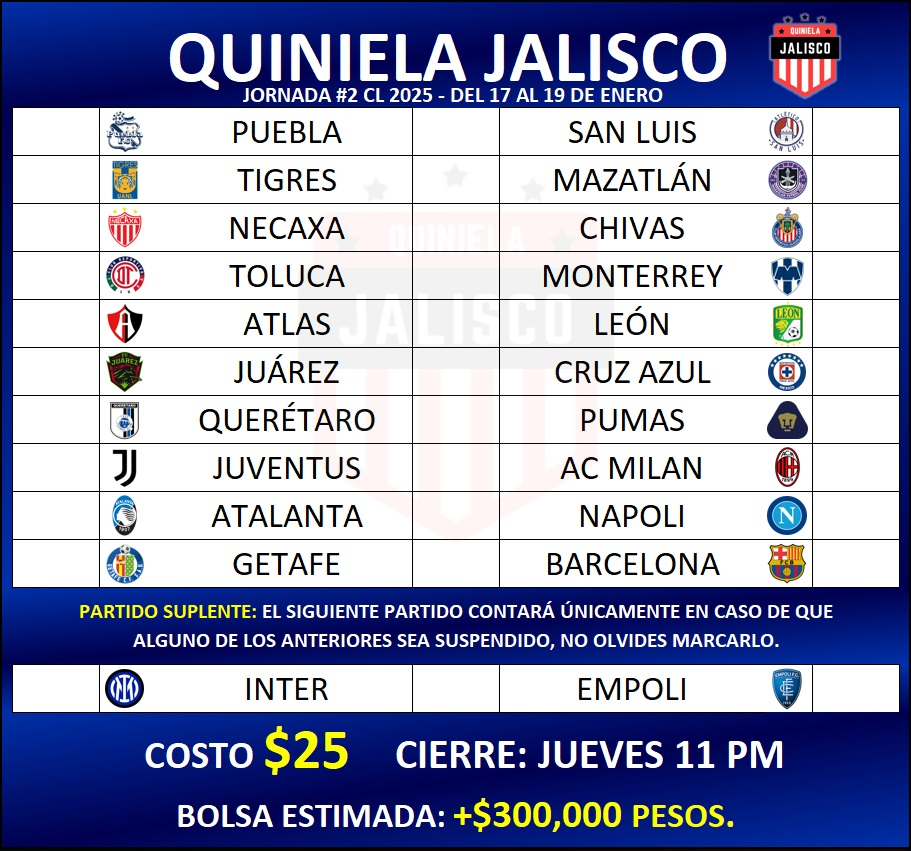
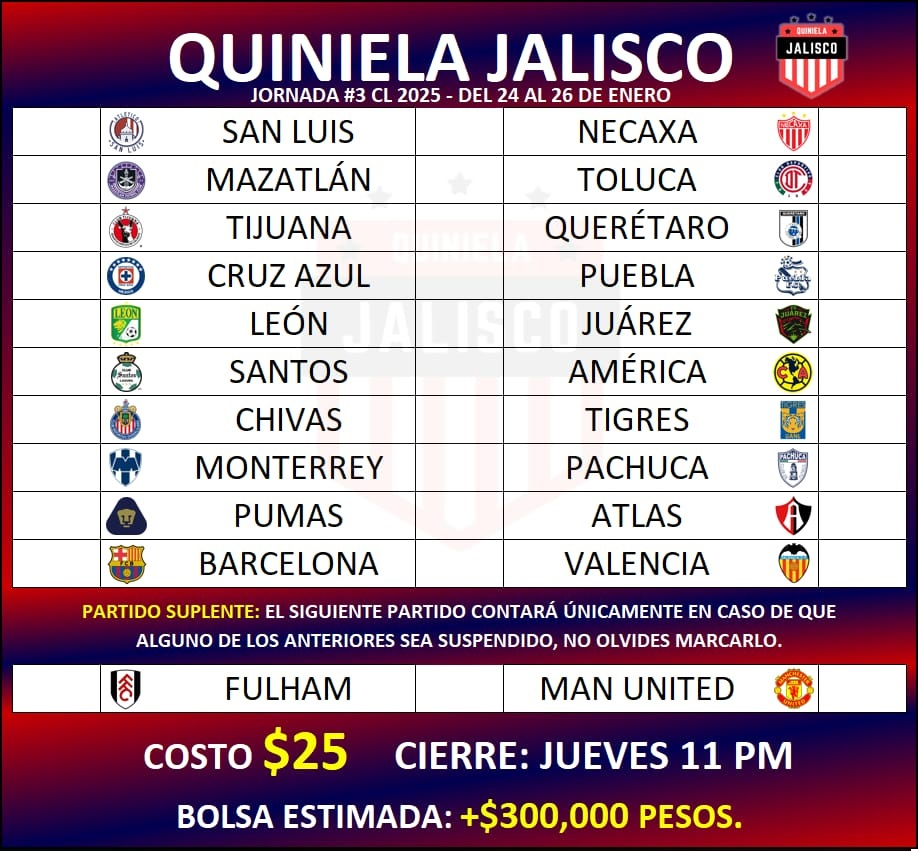
Jornada 3 C25

diff --git a/11/styles11.css b/11/styles11.css
@@ -95,8 +95,8 @@ body{
     margin-top: 8.5%;
     border-top: solid 1px black;
     border-radius: 0 0 14px 14px;
-    background: -webkit-linear-gradient(0.49turn, rgb(4 0 146) -7%, rgb(0 4 86) 80%);
-    background: linear-gradient(0.49turn, rgb(4 0 146) -7%, rgb(0 4 86) 80%);
+    background: -webkit-linear-gradient(0.49turn, rgb(91 1 43) -7%, rgb(0 4 86) 80%);
+    background: linear-gradient(0.49turn, rgb(91 1 43) -7%, rgb(0 4 86) 80%);
 }
 
 .text-lg{
